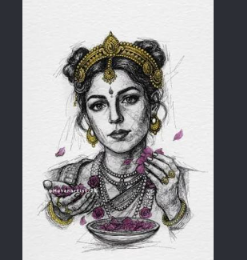
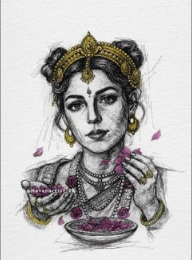
fix: dense 100-language calligraphy framing across all margins, interleaved global scripts & cropped pillarboxes

diff --git a/components/ScribbleVideoRenderer.tsx b/components/ScribbleVideoRenderer.tsx
@@ -187,12 +187,12 @@ export default function ScribbleVideoRenderer({
 
     if (!photoImage) return;
 
-    // Calculate image placement centered on canvas
+    // Calculate image placement centered on canvas with generous calligraphy framing margins
     const imgAspect = photoImage.width / photoImage.height;
-    let targetW = width * 0.78;
+    let targetW = Math.min(width * 0.62, 480);
     let targetH = targetW / imgAspect;
-    if (targetH > height * 0.82) {
-      targetH = height * 0.82;
+    if (targetH > height * 0.72) {
+      targetH = height * 0.72;
       targetW = targetH * imgAspect;
     }
     const targetX = (width - targetW) / 2;
@@ -438,94 +438,96 @@ export default function ScribbleVideoRenderer({
     gesturalStrokes.sort((a, b) => a.progressY - b.progressY);
     gesturalStrokesRef.current = gesturalStrokes;
 
-    // 6. BACKGROUND MULTILINGUAL TYPOGRAPHY (Generously Spaced - Zero Collisions)
+    // 6. BACKGROUND MULTILINGUAL TYPOGRAPHY (Dense, Balanced Framing Across 100 Languages)
     const bgTexts: BackgroundText[] = [];
     let wordIdx = 0;
 
-    // A. Left Gutter Column (Never touches portrait)
-    if (targetX > 90) {
-      const leftColX = Math.max(20, (targetX - 150) / 2);
-      for (let y = 55; y < height - 60; y += 46) {
-        const phrase = phrases[wordIdx % phrases.length];
-        wordIdx++;
-        bgTexts.push({
-          x: leftColX,
-          y,
-          text: phrase.text,
-          fontSize: 12.5,
-          progressY: y / height,
-          color: palette.bgText
-        });
-      }
-    }
-
-    // B. Right Gutter Column
-    const rightStart = targetX + targetW + 28;
-    if (width - rightStart > 90) {
-      for (let y = 55; y < height - 60; y += 46) {
-        const phrase = phrases[wordIdx % phrases.length];
-        wordIdx++;
-        bgTexts.push({
-          x: rightStart,
-          y,
-          text: phrase.text,
-          fontSize: 12.5,
-          progressY: y / height,
-          color: palette.bgText
-        });
-      }
-    }
-
-    // C. Top Header (Spaced evenly across top margin)
-    const topY = Math.max(30, targetY - 35);
-    const topSlots = [45, 290, 535];
-    topSlots.forEach((tx) => {
-      if (tx < width - 130) {
-        const phrase = phrases[wordIdx % phrases.length];
-        wordIdx++;
-        bgTexts.push({
-          x: tx,
-          y: topY,
-          text: phrase.text,
-          fontSize: 12.5,
-          progressY: topY / height,
-          color: palette.bgText
+    // A. Top Header Margin (3 horizontal rows across top)
+    const topRowY = [35, 70, 105];
+    const topColX = [30, 160, 290, 420, 550, 680];
+    topRowY.forEach((ty) => {
+      if (ty < targetY - 18) {
+        topColX.forEach((tx) => {
+          if (phrases.length > 0) {
+            const phrase = phrases[wordIdx % phrases.length];
+            wordIdx++;
+            bgTexts.push({
+              x: tx,
+              y: ty,
+              text: phrase.text,
+              fontSize: 12.5,
+              progressY: ty / height,
+              color: palette.bgText
+            });
+          }
         });
       }
     });
 
-    // D. Bottom Footer (Spaced cleanly with generous breathing room, avoiding all text collision)
-    const bottomY1 = Math.min(height - 58, targetY + targetH + 34);
-    const bottomY2 = Math.min(height - 24, bottomY1 + 28);
+    // B. Left Gutter Margin (3 staggered columns)
+    const leftCols = [22, 68, 114];
+    for (let y = 35; y < height - 35; y += 38) {
+      leftCols.forEach((colX, cIdx) => {
+        if (colX < targetX - 16) {
+          const staggeredY = y + (cIdx % 2 === 1 ? 19 : 0);
+          if (staggeredY < height - 35 && phrases.length > 0) {
+            const phrase = phrases[wordIdx % phrases.length];
+            wordIdx++;
+            bgTexts.push({
+              x: colX,
+              y: staggeredY,
+              text: phrase.text,
+              fontSize: 12,
+              progressY: staggeredY / height,
+              color: palette.bgText
+            });
+          }
+        }
+      });
+    }
 
-    const bottomSlots1 = [45, 290, 535];
-    bottomSlots1.forEach((bx) => {
-      if (bx < width - 130) {
-        const phrase = phrases[wordIdx % phrases.length];
-        wordIdx++;
-        bgTexts.push({
-          x: bx,
-          y: bottomY1,
-          text: phrase.text,
-          fontSize: 12,
-          progressY: bottomY1 / height,
-          color: palette.bgText
-        });
-      }
-    });
+    // C. Right Gutter Margin (3 staggered columns)
+    const rightMarginStart = targetX + targetW + 18;
+    const rightCols = [rightMarginStart, rightMarginStart + 46, rightMarginStart + 92];
+    for (let y = 35; y < height - 35; y += 38) {
+      rightCols.forEach((colX, cIdx) => {
+        if (colX < width - 50) {
+          const staggeredY = y + (cIdx % 2 === 1 ? 19 : 0);
+          if (staggeredY < height - 35 && phrases.length > 0) {
+            const phrase = phrases[wordIdx % phrases.length];
+            wordIdx++;
+            bgTexts.push({
+              x: colX,
+              y: staggeredY,
+              text: phrase.text,
+              fontSize: 12,
+              progressY: staggeredY / height,
+              color: palette.bgText
+            });
+          }
+        }
+      });
+    }
 
-    const bottomSlots2 = [165, 415];
-    bottomSlots2.forEach((bx) => {
-      if (bx < width - 130) {
-        const phrase = phrases[wordIdx % phrases.length];
-        wordIdx++;
-        bgTexts.push({
-          x: bx,
-          y: bottomY2,
-          text: phrase.text,
-          fontSize: 12,
-          progressY: bottomY2 / height,
-          color: palette.bgText
+    // D. Bottom Footer Margin (3 horizontal rows across bottom)
+    const bottomStartY = targetY + targetH + 28;
+    const bottomRowY = [bottomStartY, bottomStartY + 35, bottomStartY + 70];
+    const bottomColX = [30, 160, 290, 420, 550, 680];
+    bottomRowY.forEach((by) => {
+      if (by < height - 20) {
+        bottomColX.forEach((bx) => {
+          if (phrases.length > 0) {
+            const phrase = phrases[wordIdx % phrases.length];
+            wordIdx++;
+            bgTexts.push({
+              x: bx,
+              y: by,
+              text: phrase.text,
+              fontSize: 12,
+              progressY: by / height,
+              color: palette.bgText
+            });
+          }
         });
       }
     });
@@ -604,7 +606,7 @@ export default function ScribbleVideoRenderer({
 
     // 3. DRAW BACKGROUND MULTILINGUAL CALLIGRAPHY
     const bgTexts = backgroundTextsRef.current;
-    ctx.font = `italic 400 12.5px Georgia, "Times New Roman", serif`;
+    ctx.font = `italic 400 12px "Segoe UI", "Noto Sans", "Apple Color Emoji", Georgia, "Times New Roman", serif`;
     ctx.textAlign = 'left';
     ctx.textBaseline = 'middle';
 

diff --git a/lib/languages.ts b/lib/languages.ts
@@ -254,6 +254,54 @@ const HANGUL_MAP: Record<string, string> = {
   u: '우', v: '브', w: '더블유', x: '엑스', y: '와이', z: '즈'
 };
 
+const CHINESE_MAP: Record<string, string> = {
+  a: '阿', b: '布', c: '西', d: '德', e: '艾', f: '弗', g: '格', h: '赫', i: '伊', j: '杰',
+  k: '克', l: '勒', m: '姆', n: '恩', o: '奥', p: '普', q: '奇', r: '尔', s: '斯', t: '特',
+  u: '乌', v: '维', w: '瓦', x: '克', y: '雅', z: '兹'
+};
+
+const BENGALI_MAP: Record<string, string> = {
+  a: 'আ', b: 'ব', c: 'ক', d: 'ড', e: 'এ', f: 'ফ', g: 'গ', h: 'হ', i: 'ই', j: 'জ',
+  k: 'ক', l: 'ল', m: 'ম', n: 'ন', o: 'ও', p: 'প', q: 'ক', r: 'র', s: 'স', t: 'ট',
+  u: 'উ', v: 'ভ', w: 'ও', x: 'ক্স', y: 'য', z: 'য'
+};
+
+const TAMIL_MAP: Record<string, string> = {
+  a: 'அ', b: 'ப', c: 'க', d: 'ட', e: 'எ', f: 'ப', g: 'க', h: 'ஹ', i: 'இ', j: 'ஜ',
+  k: 'க', l: 'ல', m: 'ம', n: 'ன', o: 'ஒ', p: 'ப', q: 'க', r: 'ர', s: 'ஸ', t: 'த',
+  u: 'உ', v: 'வ', w: 'வ', x: 'க', y: 'ய', z: 'ஜ'
+};
+
+const TELUGU_MAP: Record<string, string> = {
+  a: 'ఆ', b: 'బ', c: 'క', d: 'డ', e: 'ఏ', f: 'ఫ', g: 'గ', h: 'హ', i: 'ఇ', j: 'జ',
+  k: 'క', l: 'ల', m: 'మ', n: 'న', o: 'ఓ', p: 'ప', q: 'క', r: 'ర', s: 'స', t: 'ట',
+  u: 'ఉ', v: 'వ', w: 'వ', x: 'క్స్', y: 'య', z: 'జ'
+};
+
+const THAI_MAP: Record<string, string> = {
+  a: 'อา', b: 'บ', c: 'ซ', d: 'ด', e: 'เอ', f: 'ฟ', g: 'ก', h: 'ฮ', i: 'อิ', j: 'จ',
+  k: 'ค', l: 'ล', m: 'ม', n: 'น', o: 'โอ', p: 'ป', q: 'ค', r: 'ร', s: 'ส', t: 'ท',
+  u: 'อุ', v: 'ว', w: 'ว', x: 'กซ', y: 'ย', z: 'ซ'
+};
+
+const ARMENIAN_MAP: Record<string, string> = {
+  a: 'ա', b: 'բ', c: 'ց', d: 'դ', e: 'ե', f: 'ֆ', g: 'գ', h: 'հ', i: 'ի', j: 'ջ',
+  k: 'կ', l: 'լ', m: 'մ', n: 'ն', o: 'օ', p: 'պ', q: 'ք', r: 'ր', s: 'ս', t: 'տ',
+  u: 'ու', v: 'վ', w: 'վ', x: 'քս', y: 'յ', z: 'զ'
+};
+
+const GEORGIAN_MAP: Record<string, string> = {
+  a: 'ა', b: 'ბ', c: 'ც', d: 'დ', e: 'ე', f: 'ფ', g: 'გ', h: 'ჰ', i: 'ი', j: 'ჯ',
+  k: 'კ', l: 'ლ', m: 'მ', n: 'ნ', o: 'ო', p: 'პ', q: 'ქ', r: 'რ', s: 'ს', t: 'ტ',
+  u: 'უ', v: 'ვ', w: 'ვ', x: 'ქს', y: 'ყ', z: 'ზ'
+};
+
+const AMHARIC_MAP: Record<string, string> = {
+  a: 'አ', b: 'በ', c: 'ከ', d: 'ደ', e: 'ኤ', f: 'ፈ', g: 'ገ', h: 'ሀ', i: 'ኢ', j: 'ጀ',
+  k: 'ከ', l: 'ለ', m: 'መ', n: 'ነ', o: 'ኦ', p: 'ፐ', q: 'ቀ', r: 'ረ', s: 'ሰ', t: 'ተ',
+  u: 'ኡ', v: 'ቨ', w: 'ወ', x: 'ክስ', y: 'የ', z: 'ዘ'
+};
+
 function transliterateWithMap(text: string, map: Record<string, string>): string {
   const lower = text.toLowerCase();
   let result = '';
@@ -280,12 +328,23 @@ export function getMultilingualList(
     trimmedName.toLowerCase() === 'love you';
 
   if (isExplicitLove) {
-    return Object.entries(LOVE_TRANSLATIONS).map(([language, phrase]) => ({
+    const rawList = Object.entries(LOVE_TRANSLATIONS).map(([language, phrase]) => ({
       language,
       nativeLanguage: language,
       text: phrase,
       script: 'native'
     }));
+    // Interleave non-Latin (Cyrillic, Hindi, Arabic, Hanzi, etc.) with Latin for visual variety
+    const nonLatin = rawList.filter((i) => /[^\u0000-\u007F]/.test(i.text));
+    const latin = rawList.filter((i) => !/[^\u0000-\u007F]/.test(i.text));
+    const mixed: TranslatedItem[] = [];
+    let n = 0, l = 0;
+    while (n < nonLatin.length || l < latin.length) {
+      if (n < nonLatin.length) mixed.push(nonLatin[n++]);
+      if (n < nonLatin.length) mixed.push(nonLatin[n++]);
+      if (l < latin.length) mixed.push(latin[l++]);
+    }
+    return mixed;
   }
 
   if (mode === 'sorry' && trimmedName.toLowerCase().includes('sorry')) {
@@ -319,6 +378,22 @@ export function getMultilingualList(
       scriptText = transliterateWithMap(trimmedName, KATAKANA_MAP);
     } else if (lang === 'Korean') {
       scriptText = transliterateWithMap(trimmedName, HANGUL_MAP);
+    } else if (lang === 'Chinese') {
+      scriptText = transliterateWithMap(trimmedName, CHINESE_MAP);
+    } else if (['Bengali', 'Assamese'].includes(lang)) {
+      scriptText = transliterateWithMap(trimmedName, BENGALI_MAP);
+    } else if (lang === 'Tamil') {
+      scriptText = transliterateWithMap(trimmedName, TAMIL_MAP);
+    } else if (['Telugu', 'Kannada'].includes(lang)) {
+      scriptText = transliterateWithMap(trimmedName, TELUGU_MAP);
+    } else if (lang === 'Thai') {
+      scriptText = transliterateWithMap(trimmedName, THAI_MAP);
+    } else if (lang === 'Armenian') {
+      scriptText = transliterateWithMap(trimmedName, ARMENIAN_MAP);
+    } else if (lang === 'Georgian') {
+      scriptText = transliterateWithMap(trimmedName, GEORGIAN_MAP);
+    } else if (lang === 'Amharic') {
+      scriptText = transliterateWithMap(trimmedName, AMHARIC_MAP);
     } else {
       // Latin variations: exact user text
       scriptText = trimmedName;
@@ -332,6 +407,18 @@ export function getMultilingualList(
     });
   }
 
-  return list;
+  // Interleave diverse global scripts so adjacent words are in distinct alphabets
+  const nonLatin = list.filter((i) => i.text !== trimmedName);
+  const latin = list.filter((i) => i.text === trimmedName);
+  const interleaved: TranslatedItem[] = [];
+  let nIdx = 0, lIdx = 0;
+
+  while (nIdx < nonLatin.length || lIdx < latin.length) {
+    if (nIdx < nonLatin.length) interleaved.push(nonLatin[nIdx++]);
+    if (nIdx < nonLatin.length) interleaved.push(nonLatin[nIdx++]);
+    if (lIdx < latin.length) interleaved.push(latin[lIdx++]);
+  }
+
+  return interleaved;
 }
 
